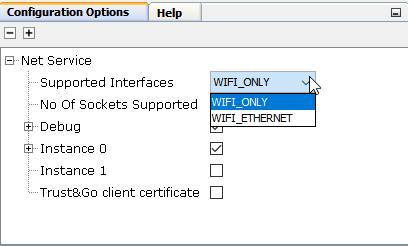
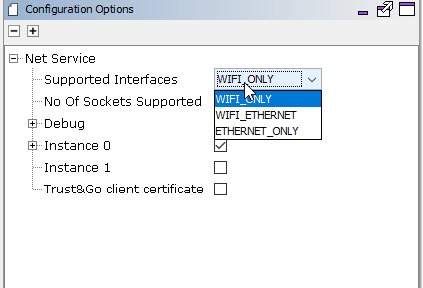
WSR2-646: Made Documentation related changes wrt ETHERNET_ONLY support in NET system service.

diff --git a/system/net/docs/configuration.md b/system/net/docs/configuration.md
@@ -19,7 +19,7 @@ The following figure shows the MHC configuration window for configuring the NET 
 
     ![](./images/Net_service_config.png)
 
-4. Configure the Supported Interface - 'WIFI_ONLY' (Wifi Only), or 'WIFI_ETHERNET' (Wifi and Ethernet Both). On choosing WIFI_ETHERNET, the MHC will add EthMAC, MIIM, and LAM8740 Components. 
+4. Configure the Supported Interface - 'WIFI_ONLY' (Wifi Only), or 'WIFI_ETHERNET' (Wifi and Ethernet Both) or 'ETHERNET_ONLY (Ethernet Only)'. On choosing WIFI_ETHERNET or ETHERNET_ONLY, the MHC will add EthMAC, MIIM, and LAM8740 Components. 
 
     ![](./images/Net_service_SuppIntf.png)
 
@@ -28,6 +28,7 @@ The following figure shows the MHC configuration window for configuring the NET 
     ![](./images/Net_service_netconfig.png)
 
 5. Configure the Number of Sockets Supported - 2 to 8, default sockets being 2.
+
     ![](./images/Net_service_SuppSocks.png)
 
 6. Debug - Enabled by default - has 'CLI Commands' and 'Debug Logs' as sub parameters
